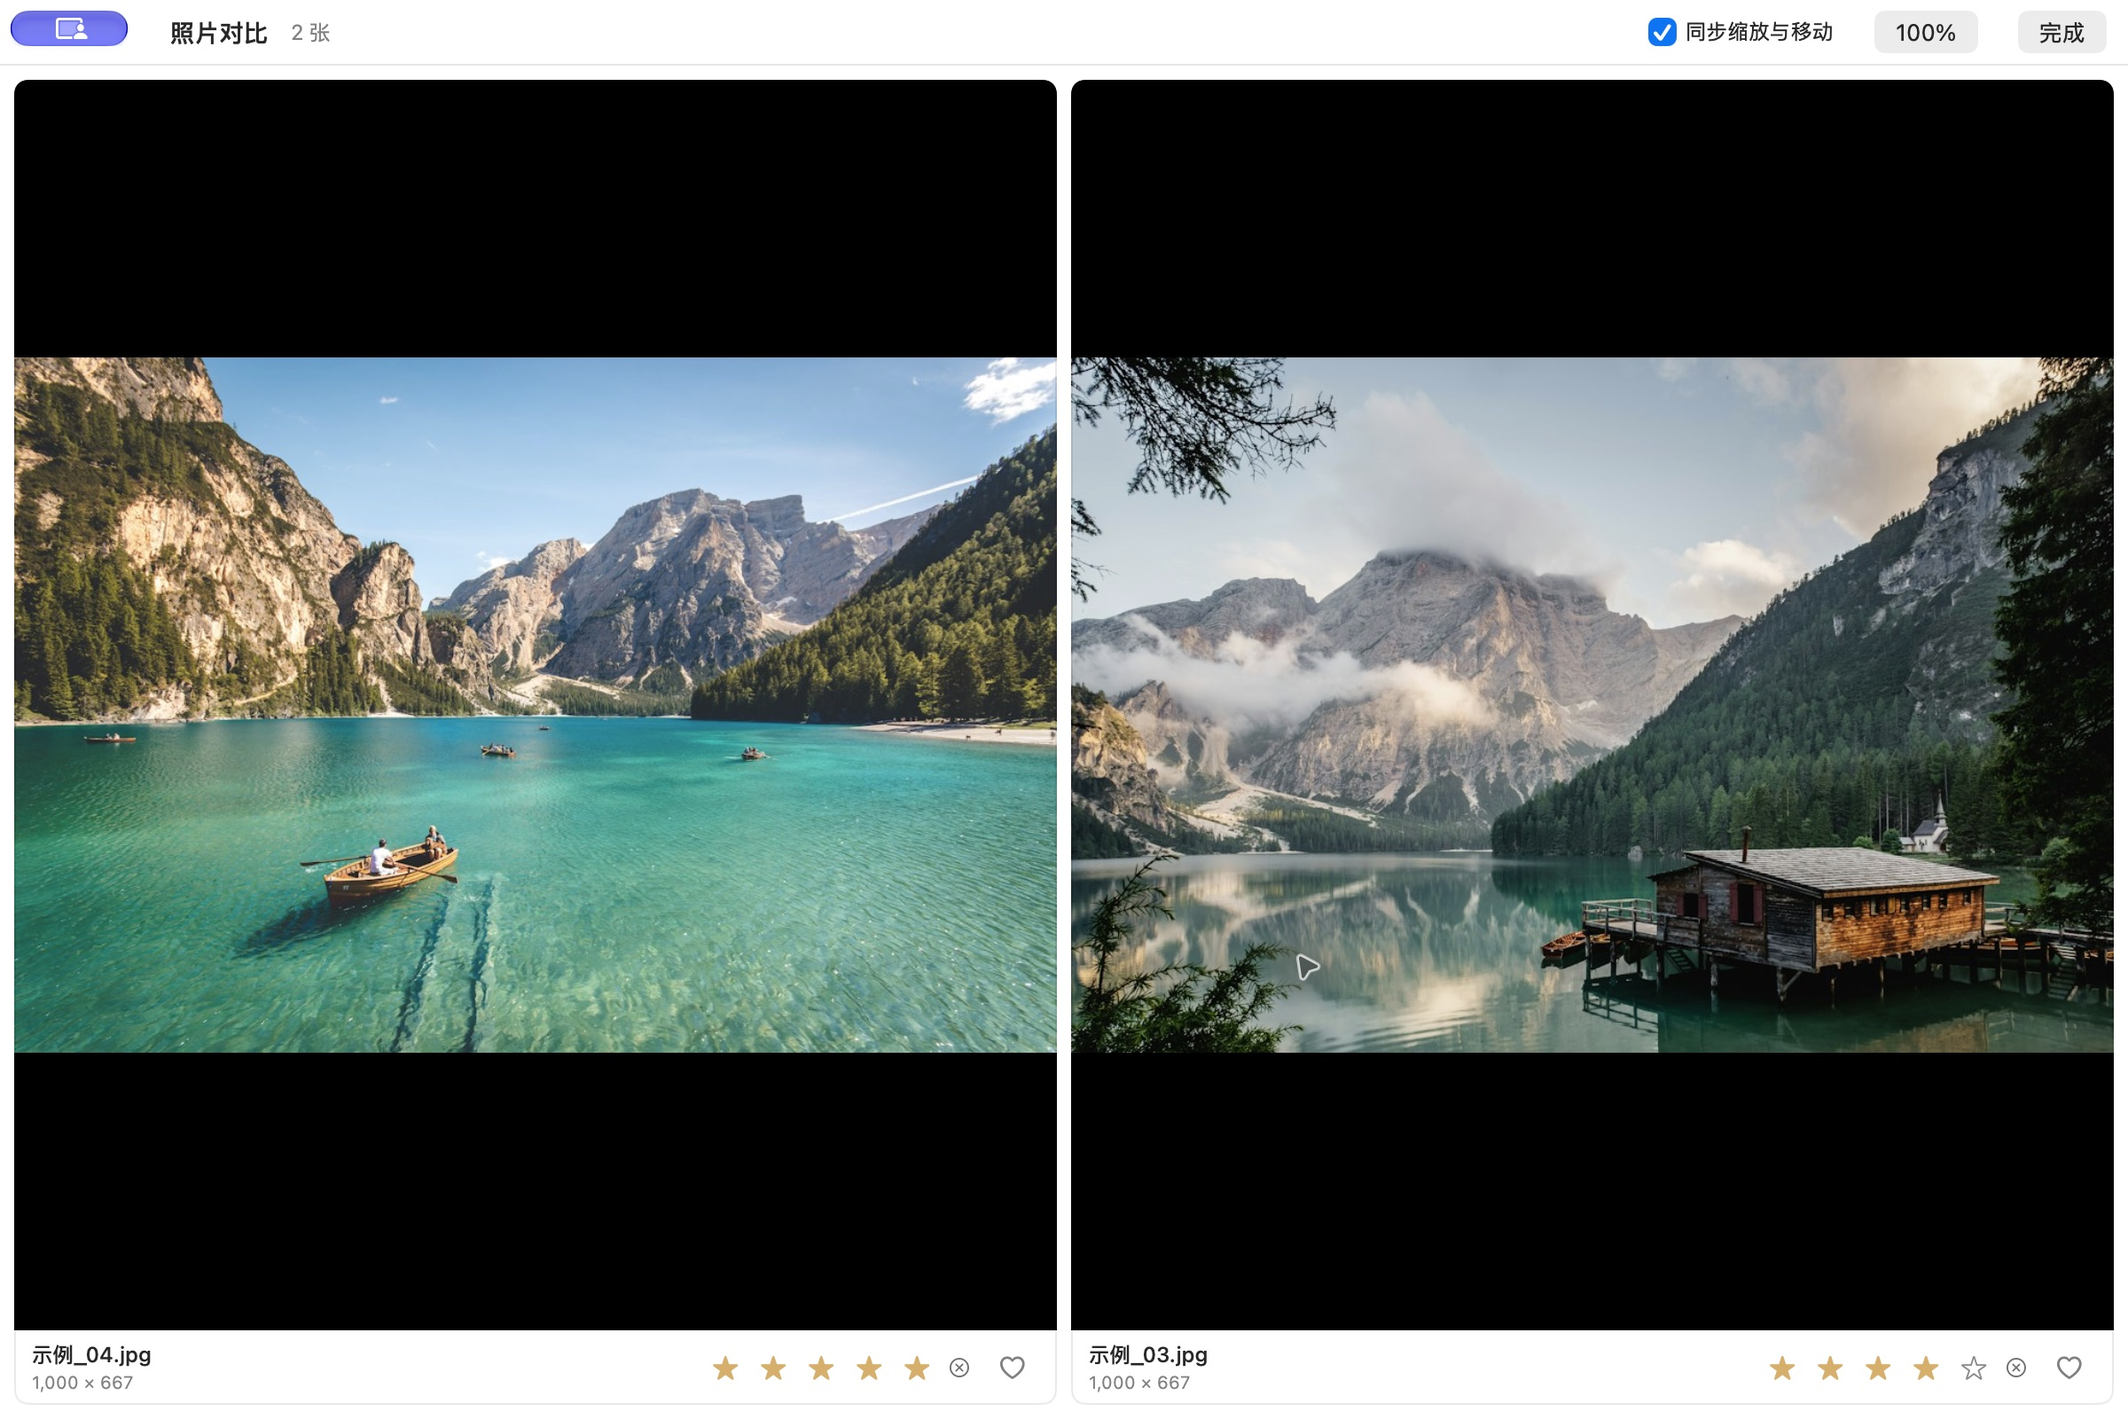
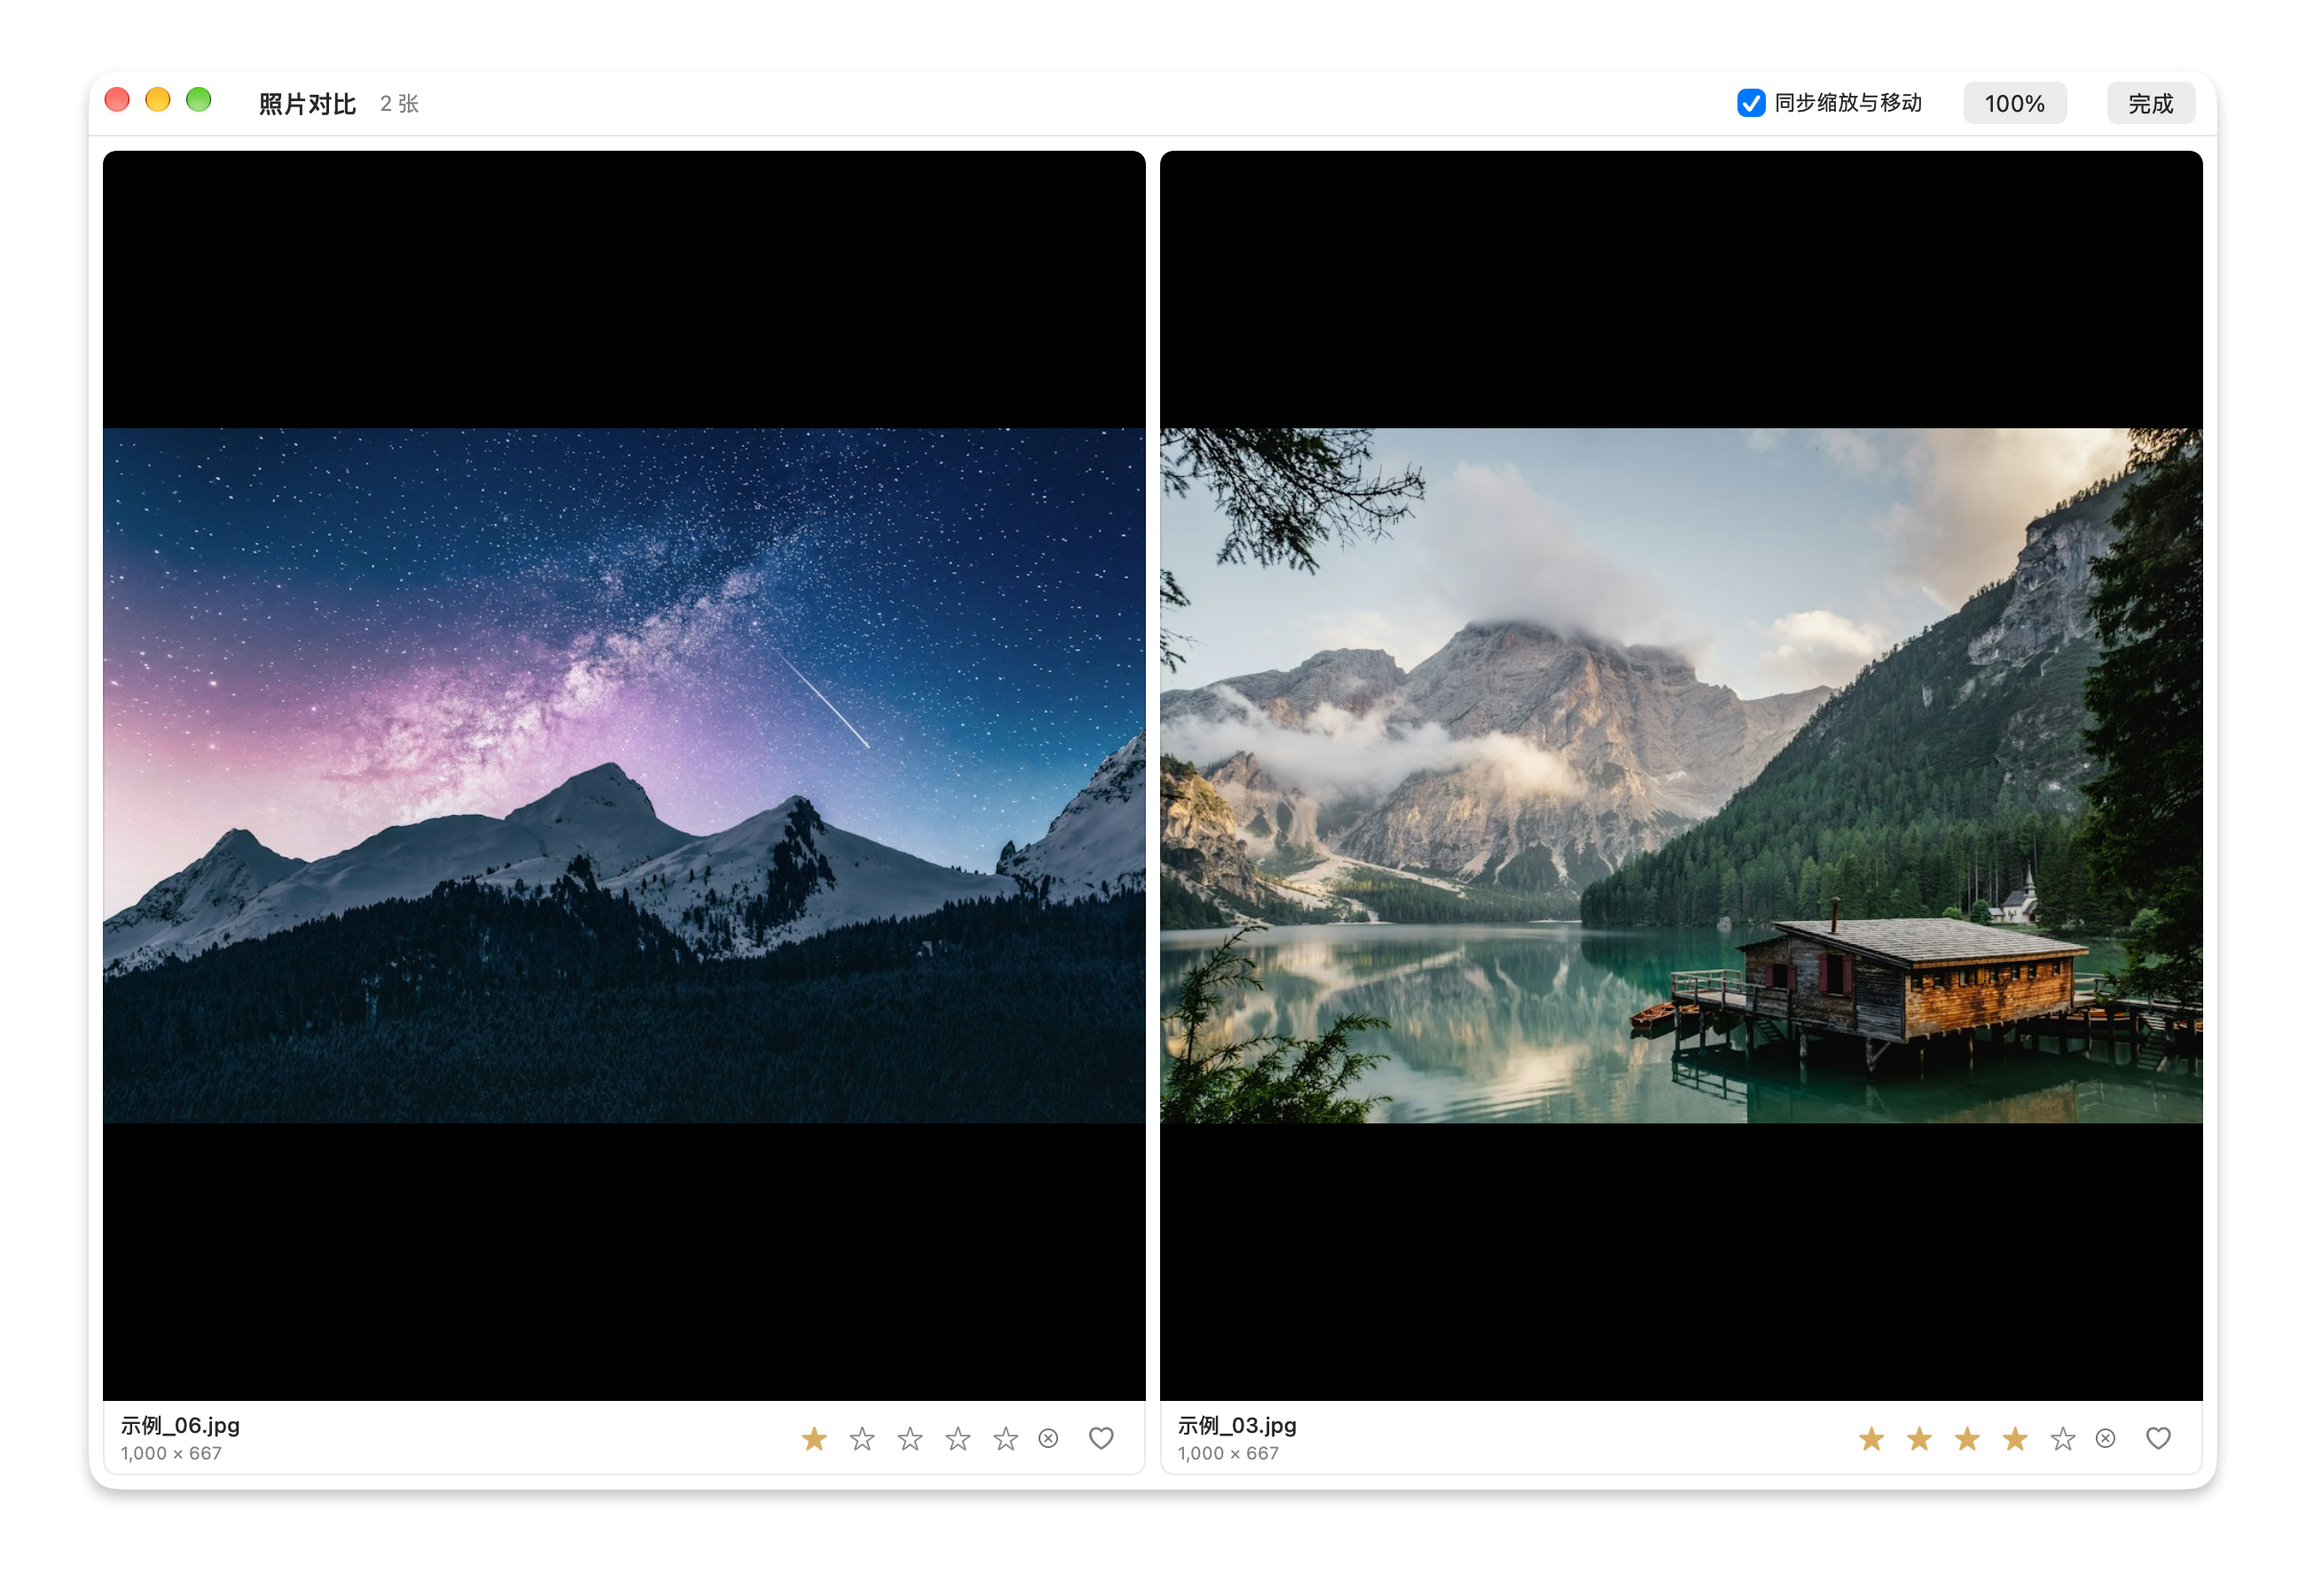
Use supplied screenshots and describe browsing comparison and viewer

diff --git a/README.md b/README.md
@@ -4,15 +4,25 @@
 
 **拾光 1.0 正式版** · macOS 14+ · Apple Silicon 与 Intel
 
-![拾光主界面：本地照片瀑布流、星级筛选、收藏、相册与标签](docs/screenshots/library.png)
-
 ## 界面预览
 
-原比例浏览照片，通过星级、收藏、相册和标签整理回忆。
+### 照片浏览与整理
 
-**照片对比** · 并排查看多张照片，支持同步缩放与移动，直接评分和收藏。
+按原比例浏览照片，按日期或月份回看。星级与爱心筛选一步可达，通过文件夹、相册和标签快速找到照片；支持多选后批量整理或进入对比。
 
-![拾光照片对比：并排查看与同步缩放](docs/screenshots/comparison.png)
+![拾光主界面：瀑布流浏览、星级与爱心筛选、相册标签及照片多选](docs/screenshots/library.png)
+
+### 照片对比
+
+选中多张照片，按 `D` 并排对比。支持同步缩放与移动，检查细节时可以直接评分、收藏，挑出更喜欢的照片。
+
+![拾光照片对比：并排查看、同步缩放与移动、独立评分和收藏](docs/screenshots/comparison.png)
+
+### 沉浸式看图
+
+双击照片或按空格进入大图，滚轮直接缩放。移动鼠标时显示照片信息和底部操作栏，可切换照片、评分、收藏或开始自动播放；播放支持间隔设置、顺序／随机、循环及仅播放选中照片。
+
+![拾光沉浸式看图：照片信息与浮动播放、评分、收藏工具栏](docs/screenshots/viewer.png)
 
 截图使用应用内置示例照片，素材来源见 [示例素材说明](Sources/PhotoShelf/Resources/Samples/CREDITS.md)。
 
